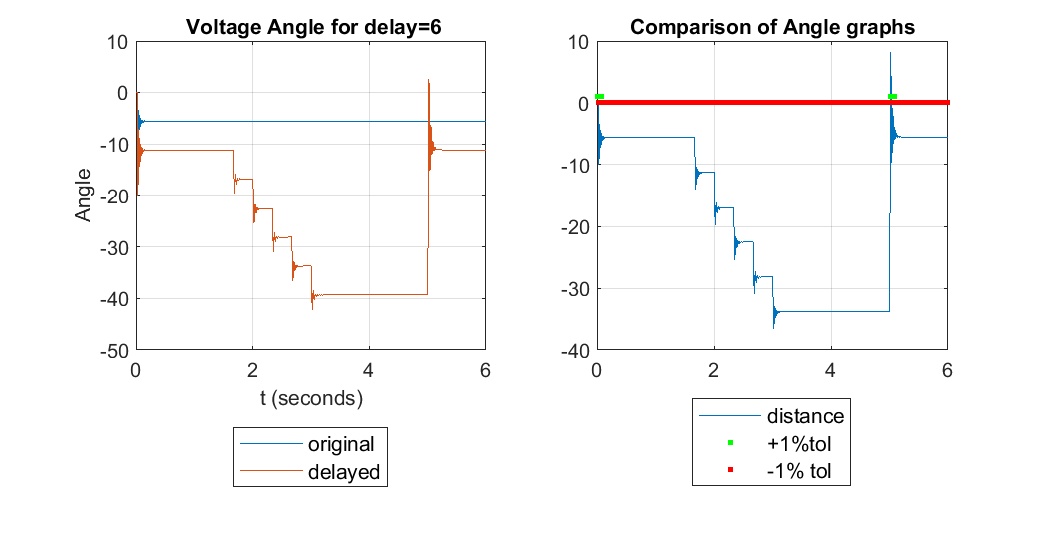
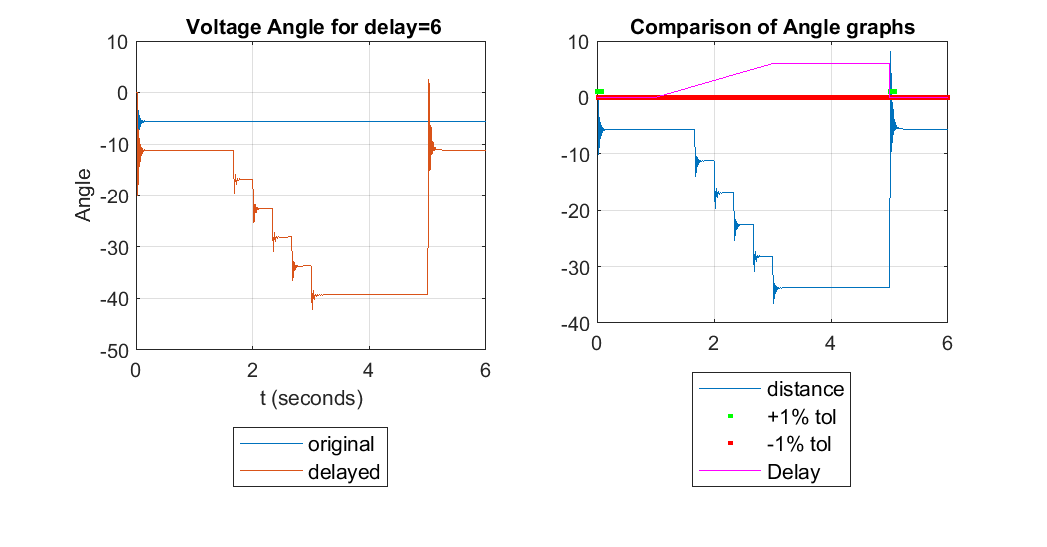
Updates from Overleaf

diff --git a/PMUsim-figures/Ascending/DelayOf_6/results.tex b/PMUsim-figures/Ascending/DelayOf_6/results.tex
@@ -1,0 +1,27 @@
+\newpage
+\newcommand{\curDir}{PMUsim-figures/Ascending/DelayOf_6}
+\section{Ascending delay function: Delay of 6}
+\begin{figure}[hb]
+ %   \includegraphics[trim=2 10 14 4, clip]{figures/v_AllFig-DelayOf_2-Ascending.png}    
+    \includegraphics[width=0.95\textwidth]{\curDir/AllFig.png}    
+    \caption{Ascending delay combined output}
+    \label{fig:PMUsim-Asc6-allfig}
+\end{figure}
+
+
+     \begin{figure}
+        \caption{Component-wise output}
+ 
+    \includegraphics[width=0.95\textwidth]{\curDir/Magnitude.png}    
+         %\caption{magnitude Output}
+         \label{fig:PMUsim-Asc6Mag}
+   \includegraphics[width=0.95\textwidth]{\curDir/Angle.png}    
+          %\caption{Angle Output}
+         \label{fig:PMUsim-Asc6Ang}
+   \includegraphics[width=0.95\textwidth]{\curDir/Frequency.png}    
+         %\caption{frequency Output}
+         \label{fig:PMUsim-Asc6Freq}
+ 
+\end{figure}
+
+

diff --git a/chapters/07-Results.tex b/chapters/07-Results.tex
@@ -35,7 +35,7 @@ Comments on the results are deferred to chapter \ref{chap:Discussions}
 
 
 
-
+\input{PMUsim-figures/Ascending/DelayOf_6/results}
 
 
 
